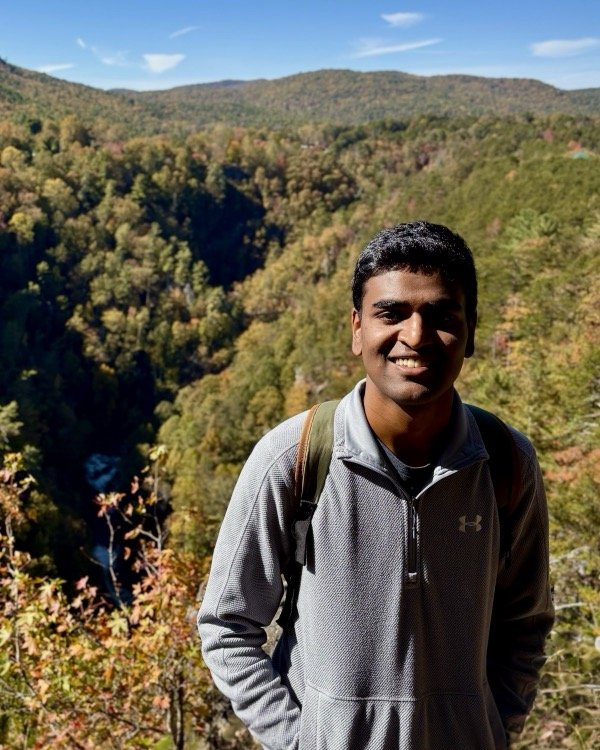
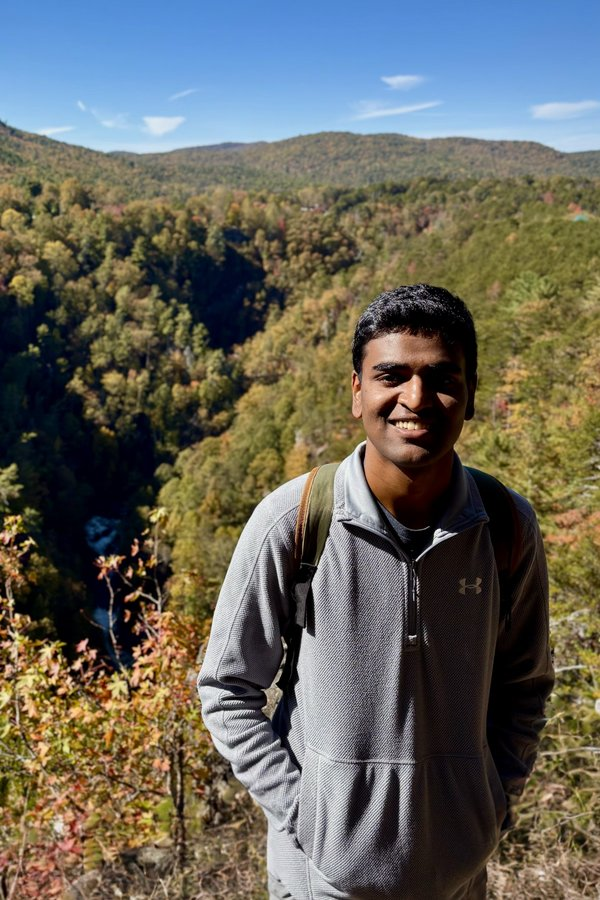
Restyle homepage header, contacts, and fonts
Set all text in IBM Plex Mono, with the Tamil name in Tiro Tamil under
a larger name that links home. Contacts become a labeled list under a
taller photo, the bio stays in one column, the address is removed, and
the Ken Thompson quote moves to the footer. The bio now reads
3rd-year Computer Science Ph.D. student at Georgia Tech, and the camo
background is a step lighter.

diff --git a/static/css/custom.css b/static/css/custom.css
@@ -1,21 +1,23 @@
 /* Camo green with cream text in every system theme; overrides the gray boxes in the XMin stylesheet. */
 :root {
   color-scheme: dark;
-  --bg: #474d33;
+  --bg: #525a3c;
   --fg: #f1ead2;
-  --muted: #d2cbab;
+  --muted: #dad3b4;
   --link: #ecd08a;
-  --rule: #6a7150;
+  --rule: #767d5b;
 }
 
 body {
   max-width: 720px;
   background: var(--bg);
   color: var(--fg);
-  font-size: 17px;
+  font-size: 16px;
   line-height: 1.6;
 }
 a { color: var(--link); }
+/* Keeps the superscript in "3rd" from pushing its line further from the others. */
+sup { line-height: 0; }
 hr { border: 0; border-top: 1px dashed var(--rule); }
 
 .menu { text-align: left; }
@@ -24,15 +26,31 @@ hr { border: 0; border-top: 1px dashed var(--rule); }
 .menu a:hover { color: var(--link); }
 footer { text-align: left; color: var(--muted); font-size: 0.85em; }
 footer a { color: var(--muted); }
+/* Copyright on the left, quote on the right; they wrap onto two lines on narrow screens. */
+footer { display: flex; flex-wrap: wrap; justify-content: space-between; gap: 0.3em 1em; clear: both; }
+footer hr { flex-basis: 100%; }
+.footer-quote { font-style: italic; }
 
 h1 { margin-bottom: 0.2em; }
+h1 { font-size: 1.8em; line-height: 1.25; }
+h1.name { font-size: 2.3em; margin: 0.2em 0 0.5em; }
+a.home { color: inherit; text-decoration: none; }
+a.home:hover { color: var(--link); }
+/* Tamil has no monospaced web font, so it keeps Tiro while everything else is mono. */
+.name-sub { display: block; font-size: 0.45em; font-weight: normal; margin-top: 0.15em; color: var(--muted); }
+.name-tamil { font-family: "Tiro Tamil", serif; }
 .subtitle { color: var(--muted); font-style: italic; margin-top: 0; }
-.profile { float: right; width: 200px; margin: 1.5em 0 1em 1.5em; }
+/* A new block formatting context keeps the bio in its own column beside the photo,
+   instead of flowing underneath it once the photo ends. */
+.bio { overflow: hidden; }
+
+/* Top margin matches the name's, so the photo and the name start on the same line. */
+.profile { float: right; width: 200px; margin: 0.92em 0 1em 1.5em; }
 .profile img { display: block; width: 100%; border-radius: 4px; }
-.icons { display: flex; justify-content: space-between; margin-top: 0.6em; font-size: 1.5em; }
-.icons a { color: var(--fg); text-decoration: none; }
+.icons { display: flex; flex-direction: column; gap: 0.35em; margin-top: 0.7em; font-size: 0.85em; }
+.icons a { display: flex; align-items: center; gap: 0.6em; color: var(--fg); text-decoration: none; white-space: nowrap; }
+.icons i { width: 1.2em; font-size: 1.25em; text-align: center; }
 .icons a:hover { color: var(--link); }
-.contact { clear: both; padding-top: 1em; font-size: 0.9em; color: var(--muted); }
 
 /* XMin boxes page titles in gray; keep them plain like the home page heading. */
 .article-meta { background: none; padding: 0; text-align: left; }

diff --git a/layouts/_partials/head_custom.html b/layouts/_partials/head_custom.html
@@ -1,6 +1,6 @@
 <link rel="preconnect" href="https://fonts.googleapis.com">
 <link rel="preconnect" href="https://fonts.gstatic.com" crossorigin>
-<link rel="stylesheet" href="https://fonts.googleapis.com/css2?family=IBM+Plex+Mono:wght@400;600&family=IBM+Plex+Sans:ital,wght@0,400;0,600;1,400&display=swap">
+<link rel="stylesheet" href="https://fonts.googleapis.com/css2?family=IBM+Plex+Mono:ital,wght@0,400;0,600;1,400&family=Tiro+Tamil&display=swap">
 <link rel="stylesheet" href="https://cdnjs.cloudflare.com/ajax/libs/font-awesome/6.5.1/css/all.min.css">
 <link rel="stylesheet" href="https://cdnjs.cloudflare.com/ajax/libs/academicons/1.9.4/css/academicons.min.css">
 <link rel="stylesheet" href="{{ "css/custom.css" | relURL }}">

diff --git a/static/css/fonts.css b/static/css/fonts.css
@@ -1,10 +1,4 @@
-body {
-  font-family: "IBM Plex Sans", system-ui, sans-serif;
-}
-h1, h2, h3, .menu, footer, .contact {
+body, code {
   font-family: "IBM Plex Mono", ui-monospace, monospace;
 }
-code {
-  font-family: "IBM Plex Mono", ui-monospace, monospace;
-  font-size: 85%;
-}
+code { font-size: 85%; }

diff --git a/content/_index.md b/content/_index.md
@@ -5,25 +5,22 @@ title: "about"
 <div class="profile">
   <img src="prof_pic.jpg" alt="Photo of Vickrant Sreekanth">
   <div class="icons">
-    <a href="mailto:vickrant@gatech.edu" title="Email"><i class="fa-solid fa-envelope"></i></a>
-    <a href="https://github.com/sreevickrant" title="GitHub"><i class="fa-brands fa-github"></i></a>
-    <a href="https://orcid.org/0009-0004-1785-8641" title="ORCID"><i class="ai ai-orcid"></i></a>  </div>
+    <a href="mailto:vickrant@gatech.edu"><i class="fa-solid fa-envelope" aria-hidden="true"></i>vickrant@gatech.edu</a>
+    <a href="https://github.com/sreevickrant"><i class="fa-brands fa-github" aria-hidden="true"></i>sreevickrant</a>
+    <a href="https://orcid.org/0009-0004-1785-8641"><i class="ai ai-orcid" aria-hidden="true"></i>0009-0004-1785-8641</a>
+  </div>
 </div>
 
-# Vickrant Sreekanth
+<div class="bio">
 
-<p class="subtitle">'When in doubt, use brute force.' - Ken Thompson</p>
+<h1 class="name"><a class="home" href="/">Vickrant Sreekanth</a> <span class="name-sub"><span class="name-tamil" lang="ta">விக்ராந்த் ஸ்ரீகாந்த்</span></span></h1>
 
-I am a third-year Ph.D. student in the School of Computer Science at Georgia Institute of Technology, where I am advised by [Dr. Willow Ahrens](https://willowahrens.net). My research focuses on sparse tensor compilation, tensor networks, and code generation optimization.
+I am a 3<sup>rd</sup>-year Computer Science Ph.D. student at Georgia Tech, where I am advised by [Dr.&nbsp;Willow&nbsp;Ahrens](https://willowahrens.net). My research focuses on sparse tensor compilation, tensor networks, and code generation optimization.
 
-Before joining Georgia Tech, I worked on optimizing compilers for fully homomorphic encryption during my time at Purdue University, collaborating with [Dr. Milind Kulkarni](https://engineering.purdue.edu/~milind/).
+Before joining Georgia Tech, I worked on optimizing compilers for fully homomorphic encryption during my time at Purdue University, collaborating with [Dr.&nbsp;Milind&nbsp;Kulkarni](https://engineering.purdue.edu/~milind/).
 
-Outside of research, I dabble in wildlife and landscape [photography](photography/) and play racquet sports such as tennis and pickleball. I also enjoy history, movies, and TV.
+Outside of research, I dabble in wildlife and landscape [photography](photography/) and play racquet sports (tennis, pickleball...). I also enjoy history, movies, and TV.
 
-<div class="contact">
-vickrant@gatech.edu<br>
-KACB 2319, 266 Ferst Dr NW<br>
-Atlanta, GA 30332
 </div>
 
 <!--
